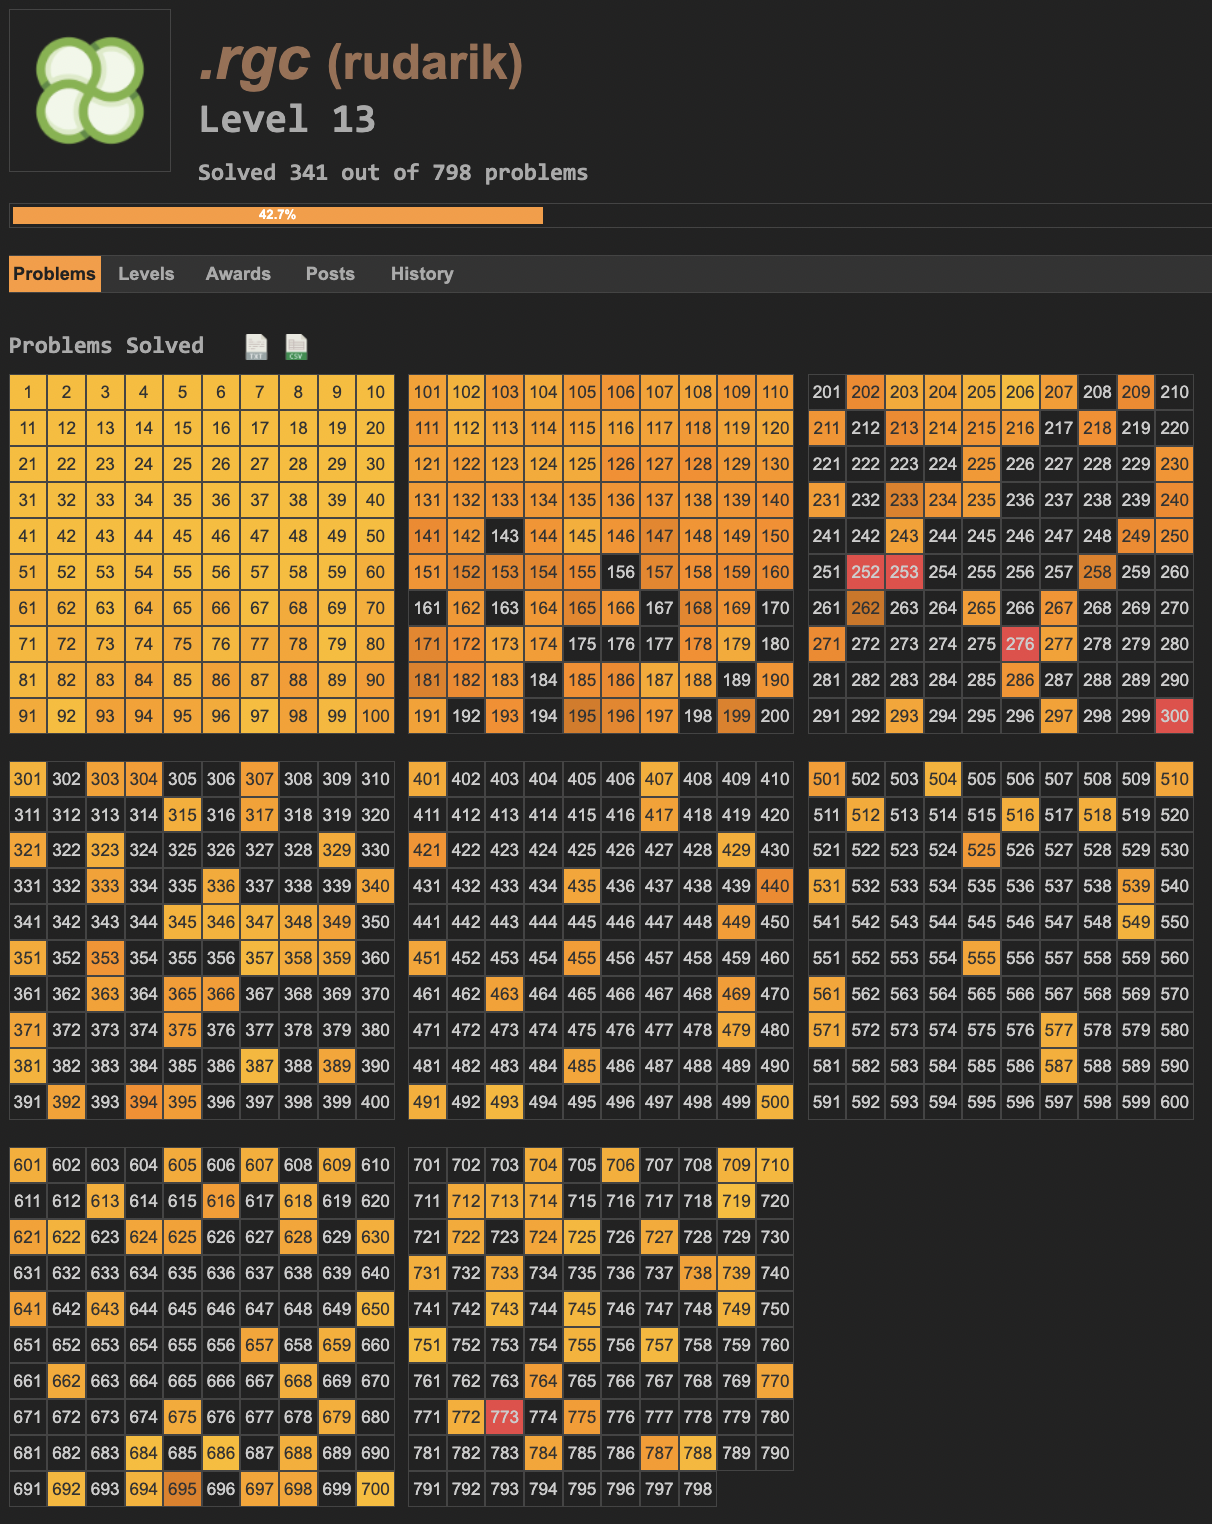
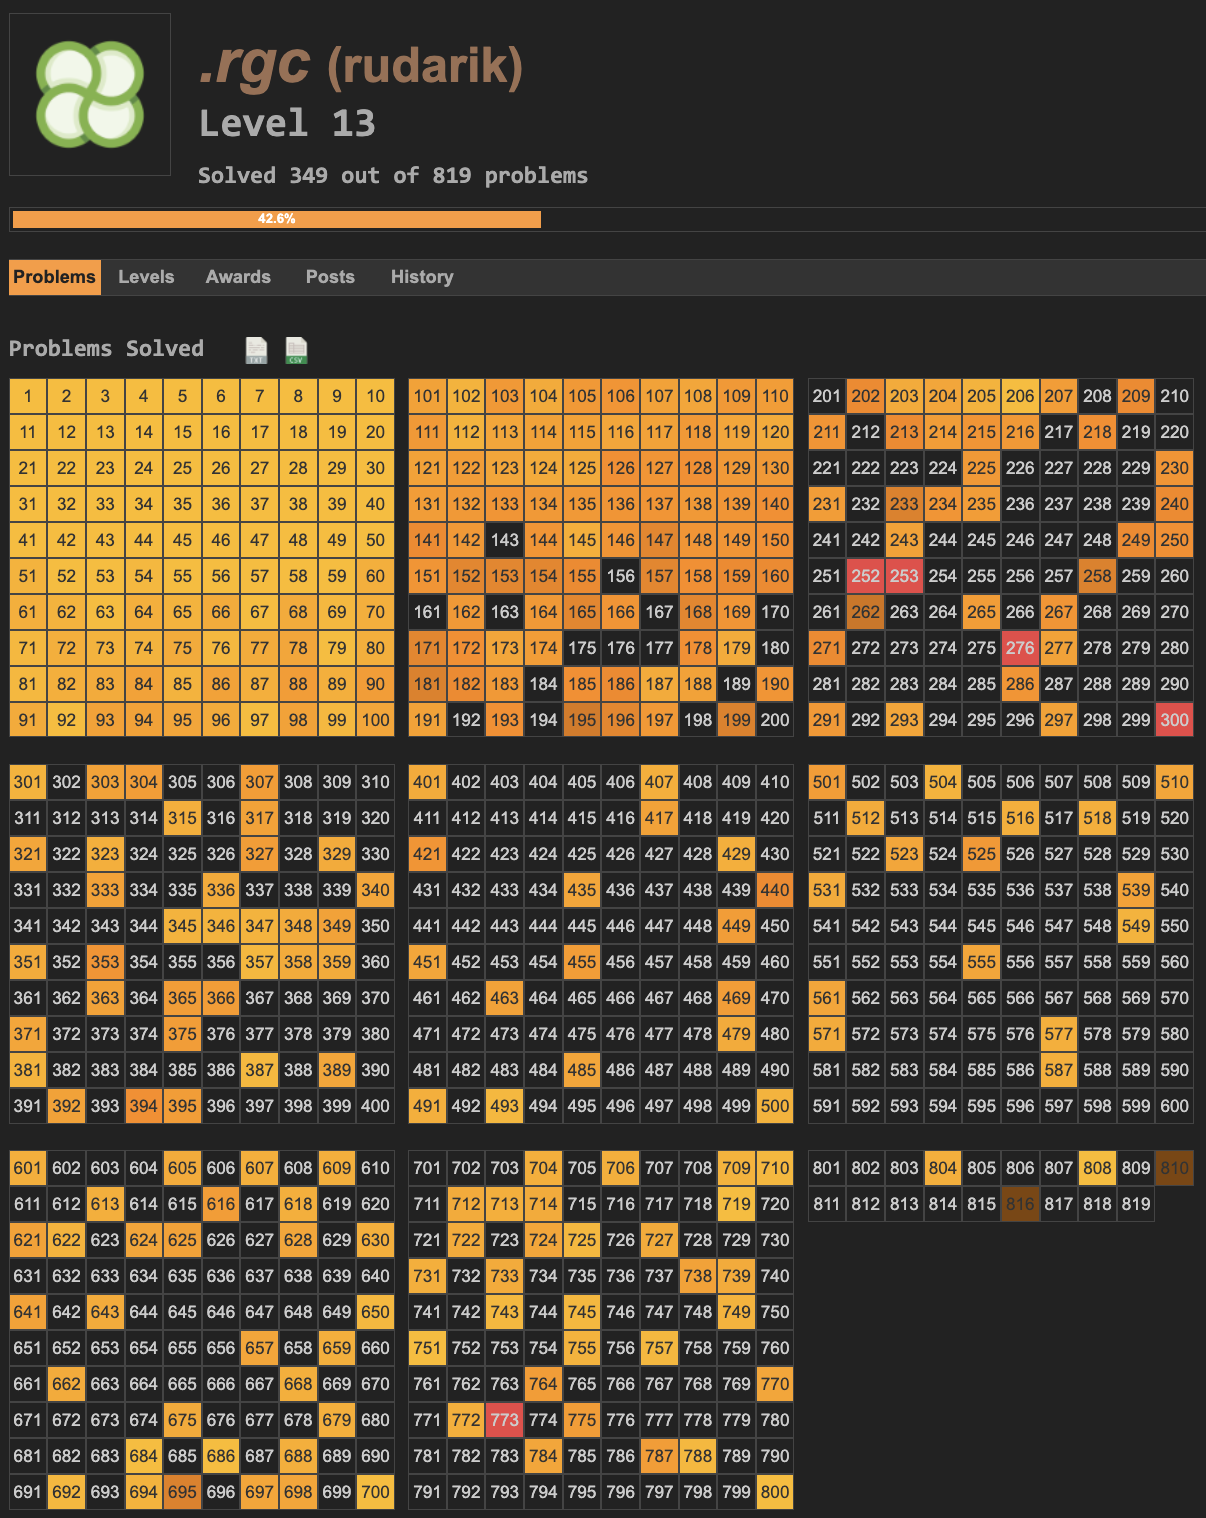
add 810 and 816

diff --git a/README.md b/README.md
@@ -36,9 +36,17 @@ My current progress:
     * Problem 231: "The prime factorisation of binomial coefficients"
     * Problem 788: "Dominating Numbers"
 
+* [Bitwise Xor](https://en.wikipedia.org/wiki/Bitwise_operation#:~:text=A%20bitwise%20XOR%20is%20a,0%20or%20both%20are%201.)
+    
+    * Problem 81: "XOR-Primes"
+
 * [Blum Blum Shub](https://en.wikipedia.org/wiki/Blum_Blum_Shub)
 
 * [Catalan Number](https://en.wikipedia.org/wiki/Catalan_number)
+
+* [Closest pair of points problem](https://en.wikipedia.org/wiki/Closest_pair_of_points_problem)
+
+    * Problem 816: Shortest distance among points
 
 * [Coupon Collector's Problem](https://en.wikipedia.org/wiki/Coupon_collector%27s_problem)
 
